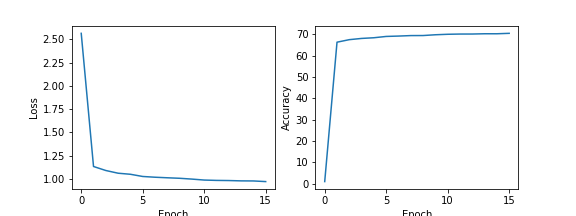
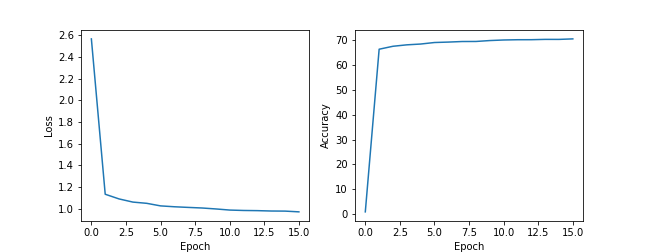
Update loss/accuracy plots

diff --git a/README.md b/README.md
@@ -284,7 +284,7 @@ Non-trainable params: 0
 -----------------------------------------------------------------------
 ```
 
-Essentially, it is 3 convolution layers with max-pooling, batch normalization, and relu activation together with 2 fully-connected layers on flattened results from the conv layers. Dropout layers are added in between to prevent over-fitting. After extensive hyperparameter tuning on this network, we found that training over 15 epochs with a learning rate of 0.01 and batch size of 32 achieves the best result - we improved from the baseline's 59% classification accuracy on the test set to an astounding 70%, which we consider a huge success given the enormous feature space and limitations of our machine that was used to train the network. Full training code can be found [here](genre_classification/rp_classification.ipynb). Below are the loss and accuracies plots on the test set during training:
+Essentially, it is 3 convolution layers with max-pooling, batch normalization, and relu activation together with 2 fully-connected layers on flattened results from the conv layers. Dropout layers are added in between to prevent over-fitting. After extensive hyperparameter tuning on this network, we found that training over 15 epochs with a learning rate of 0.01 and batch size of 32 achieves the best result - we improved from the baseline's 58% classification accuracy on the test set to an astounding 70%, which we consider a huge success given the enormous feature space and limitations of our machine that was used to train the network. Full training code can be found [here](genre_classification/rp_classification.ipynb). Below are the loss and accuracies plots on the test set during training:
 
 ![](genre_classification/figures/loss_accuracy.png)
 
